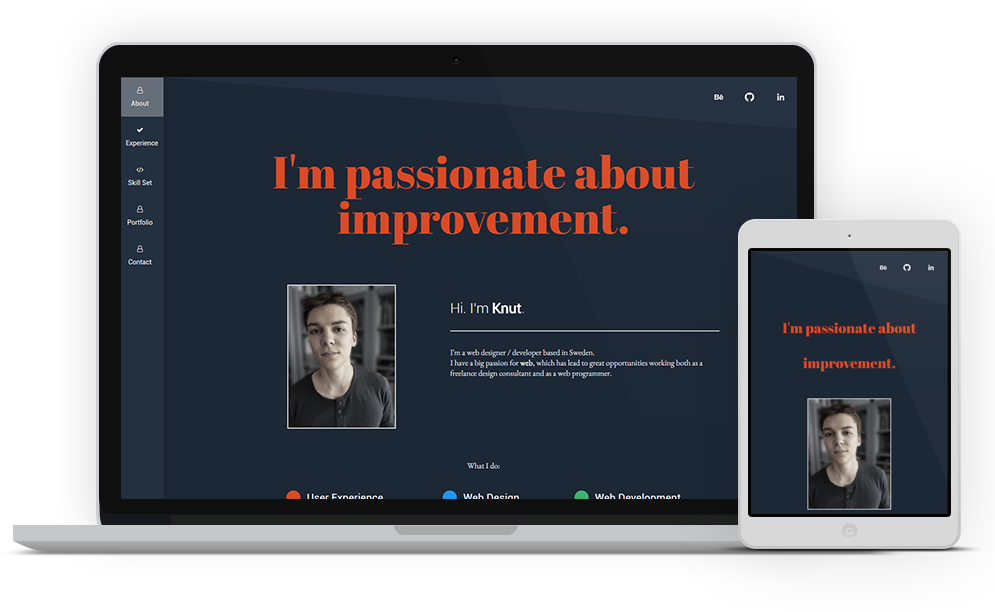
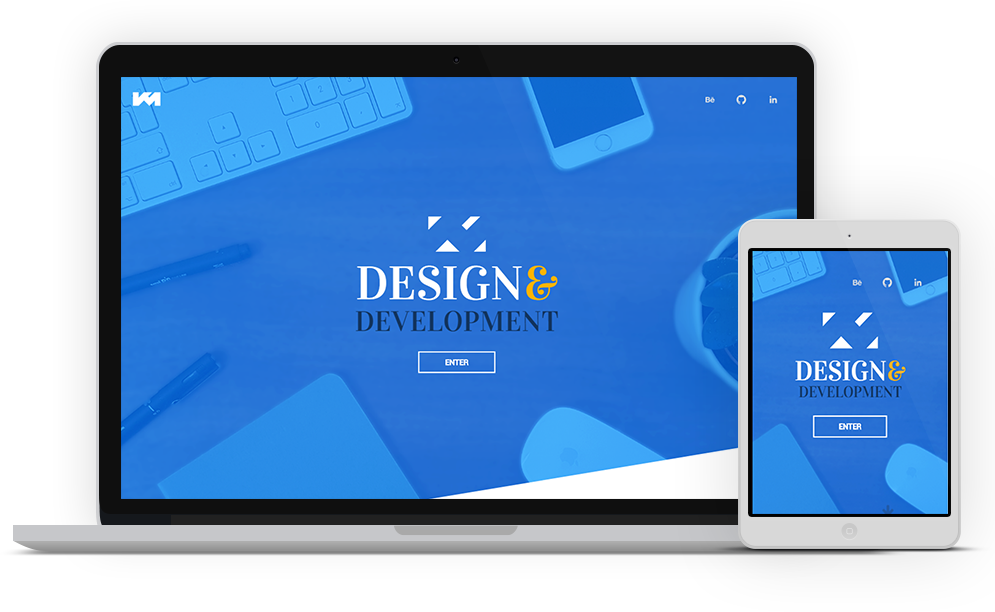
Removed experience section

diff --git a/application/css/style.css b/application/css/style.css
@@ -200,7 +200,7 @@ header .landing-button:hover {
   position: relative;
   padding: 0px;
   margin: 0 20px 0 20px;
-  background-color: white;
+  background-color: #205AA9;
   text-align: center;
   vertical-align: middle;
   transition: all 0.1s ease;
@@ -216,17 +216,20 @@ header .landing-button:hover {
     color: #FFB300;
     clip-path: polygon(80% 0, 100% 20%, 100% 100%, 0 100%, 0 0); }
   .case.collapse {
-    color: #205AA9;
+    color: white;
     clip-path: polygon(80% 0, 100% 0, 100% 100%, 0 100%, 0 0); }
 
 .more-work {
-  color: white;
   text-align: center;
   margin-top: 30px;
   display: block;
   -webkit-transition: -webkit-all 0.1s;
   -moz-transition: -moz-all 0.1s;
-  transition: all 0.1s; }
+  transition: all 0.1s;
+  color: #205AA9; }
+
+.portfolio-title-text {
+  color: #205AA9; }
 
 .more-work:hover {
   color: #FFB300; }
@@ -236,6 +239,11 @@ header .landing-button:hover {
   padding: 50px;
   margin-left: auto;
   margin-right: auto; }
+  .project-wrapper a,
+  .project-wrapper p,
+  .project-wrapper h1,
+  .project-wrapper h2 {
+    color: #123561; }
   .project-wrapper img {
     width: 100%;
     height: auto; }
@@ -245,8 +253,7 @@ header .landing-button:hover {
     list-style: none; }
   .project-wrapper .project-navigation a {
     display: inline;
-    padding-right: 30px;
-    color: white; }
+    padding-right: 30px; }
     .project-wrapper .project-navigation a i,
     .project-wrapper .project-navigation a p {
       display: inline; }
@@ -254,7 +261,7 @@ header .landing-button:hover {
 .view-animate-container {
   position: relative;
   height: 600px;
-  background: #205AA9;
+  background: white;
   overflow: hidden;
   padding: 0; }
 
@@ -357,8 +364,6 @@ body {
     -webkit-box-shadow: 7px 7px 15px 0 rgba(50, 50, 50, 0.75);
     -moz-box-shadow: 7px 7px 15px 0 rgba(50, 50, 50, 0.75);
     box-shadow: 7px 7px 15px 0 rgba(50, 50, 50, 0.75); }
-  body .prime-colored {
-    color: #FFB300; }
   body .white {
     color: white; }
 
@@ -379,20 +384,18 @@ main section {
   width: 100%;
   position: relative;
   background-color: #205AA9;
-  /*    margin: 0 0 1px;*/
   padding: 2em 0 7em 0; }
 
 main .section-content {
   max-width: 1000px;
-  /*    margin-bottom: 30px;*/
   margin-left: auto;
   margin-right: auto;
   padding: 1px 0;
   z-index: 150; }
 
-main section#compentencies {
-  background: linear-gradient(#113275, darkblue);
-  color: white; }
+main section#contact {
+  background-color: white;
+  padding: 1em 0 1em 0; }
 
 section#about {
   -webkit-clip-path: polygon(0 0, 100% 10%, 100% 100%, 0 90%);

diff --git a/application/scss/portfolio.scss b/application/scss/portfolio.scss
@@ -2,7 +2,7 @@
     position: relative;
     padding: 0px;
     margin: 0 20px 0 20px;
-    background-color: white;
+    background-color: $prime-blue;
     text-align: center;
     vertical-align: middle;
     transition: all 0.1s ease;
@@ -21,19 +21,23 @@
         clip-path: polygon(80% 0, 100% 20%, 100% 100%, 0 100%, 0 0);
     }
     &.collapse {
-        color: $prime-blue;
+        color: white;
         clip-path: polygon(80% 0, 100% 0, 100% 100%, 0 100%, 0 0);
     }
 }
 
 .more-work {
-    color: white;
     text-align: center;
     margin-top: 30px;
     display: block;
     -webkit-transition: -webkit-all 0.1s;
     -moz-transition: -moz-all 0.1s;
     transition: all 0.1s;
+    color: $prime-blue;
+}
+
+.portfolio-title-text {
+    color: $prime-blue;
 }
 
 .more-work:hover {
@@ -45,6 +49,12 @@
     padding: 50px;
     margin-left: auto;
     margin-right: auto;
+    a,
+    p,
+    h1,
+    h2 {
+        color: $dark-blue;
+    }
     img {
         width: 100%;
         height: auto;
@@ -59,7 +69,6 @@
         a {
             display: inline;
             padding-right: 30px;
-            color: white;
             i,
             p {
                 display: inline;
@@ -71,7 +80,7 @@
 .view-animate-container {
     position: relative;
     height: 600px;
-    background: $prime-blue;
+    background: white;
     overflow: hidden;
     padding: 0;
 }

diff --git a/application/templates/content/portfolio.html b/application/templates/content/portfolio.html
@@ -1,5 +1,4 @@
 <div class="section-content ">
-    <h1 class="title display-serif"> Selected web projects: </h1>
 
     <div class="cases">
         <div class="row">
@@ -18,7 +17,7 @@
                     <img src="application/img/kmshow.png"></img>
                 </div>
                 <div class="case-information ">
-                    <h1>Previous Portfolio</h1>
+                    <h1>Portfolio 2016</h1>
                     <h2>Website + brand</h2>
                     <h3>Click to view</h3>
                 </div>
@@ -28,8 +27,8 @@
                     <img src="application/img/km2017.png"></img>
                 </div>
                 <div class="case-information ">
-                    <h1>Thoughts about this site</h1>
-                    <h2>Website + brand</h2>
+                    <h1>Portfolio 2017 / This site</h1>
+                    <h2>Website</h2>
                     <h3>Click to view</h3>
                 </div>
             </a>

diff --git a/application/scss/style.scss b/application/scss/style.scss
@@ -82,9 +82,6 @@
             -moz-box-shadow: 7px 7px 15px 0 rgba(50, 50, 50, 0.75);
             box-shadow: 7px 7px 15px 0 rgba(50, 50, 50, 0.75);
         }
-        .prime-colored {
-            color: $prime-color;
-        }
         .white {
             color: white;
         }
@@ -110,22 +107,20 @@
         width: 100%;
         position: relative;
         background-color: $prime-blue;
-        /*    margin: 0 0 1px;*/
         padding: 2em 0 7em 0;
     }
     
     main .section-content {
         max-width: 1000px;
-        /*    margin-bottom: 30px;*/
         margin-left: auto;
         margin-right: auto;
         padding: 1px 0;
         z-index: 150;
     }
     
-    main section#compentencies {
-        background: linear-gradient(#113275, darkblue);
-        color: white;
+    main section#contact {
+        background-color: white;
+        padding: 1em 0 1em 0;
     }
     
     section#about {

diff --git a/application/templates/navbar/navbar.html b/application/templates/navbar/navbar.html
@@ -8,9 +8,6 @@
         <a href="#skill-set" class="col-xs-3 col-md-offset-1" du-smooth-scroll du-scrollspy>
             <div class="navicon"><i class="fa fa-code"></i></div>
             <br>Skill Set</a>
-        <a href="#experience" class="col-xs-3 col-md-offset-1" du-smooth-scroll du-scrollspy>
-            <div class="navicon"><i class="fa fa-check"></i></div>
-            <br>Experience</a>
         <a href="#projects" class="col-xs-3 col-md-offset-1" du-smooth-scroll du-scrollspy>
             <div class="navicon"><i class="fa fa-user-o"></i></div>
             <br>Portfolio</a>

diff --git a/index.html b/index.html
@@ -35,9 +35,6 @@
             <section ng-controller="skillCtrl" id="skill-set">
                 <div class="section-content" ng-include='"application/templates/content/skillset.html"'> </div>
             </section>
-            <section id="experience">
-                <div class="section-content" ng-include='"application/templates/content/experience.html"'> </div>
-            </section>
             <section class="view-animate-container" id="projects">
                 <div class="view-animate" ng-view></div>
             </section>
